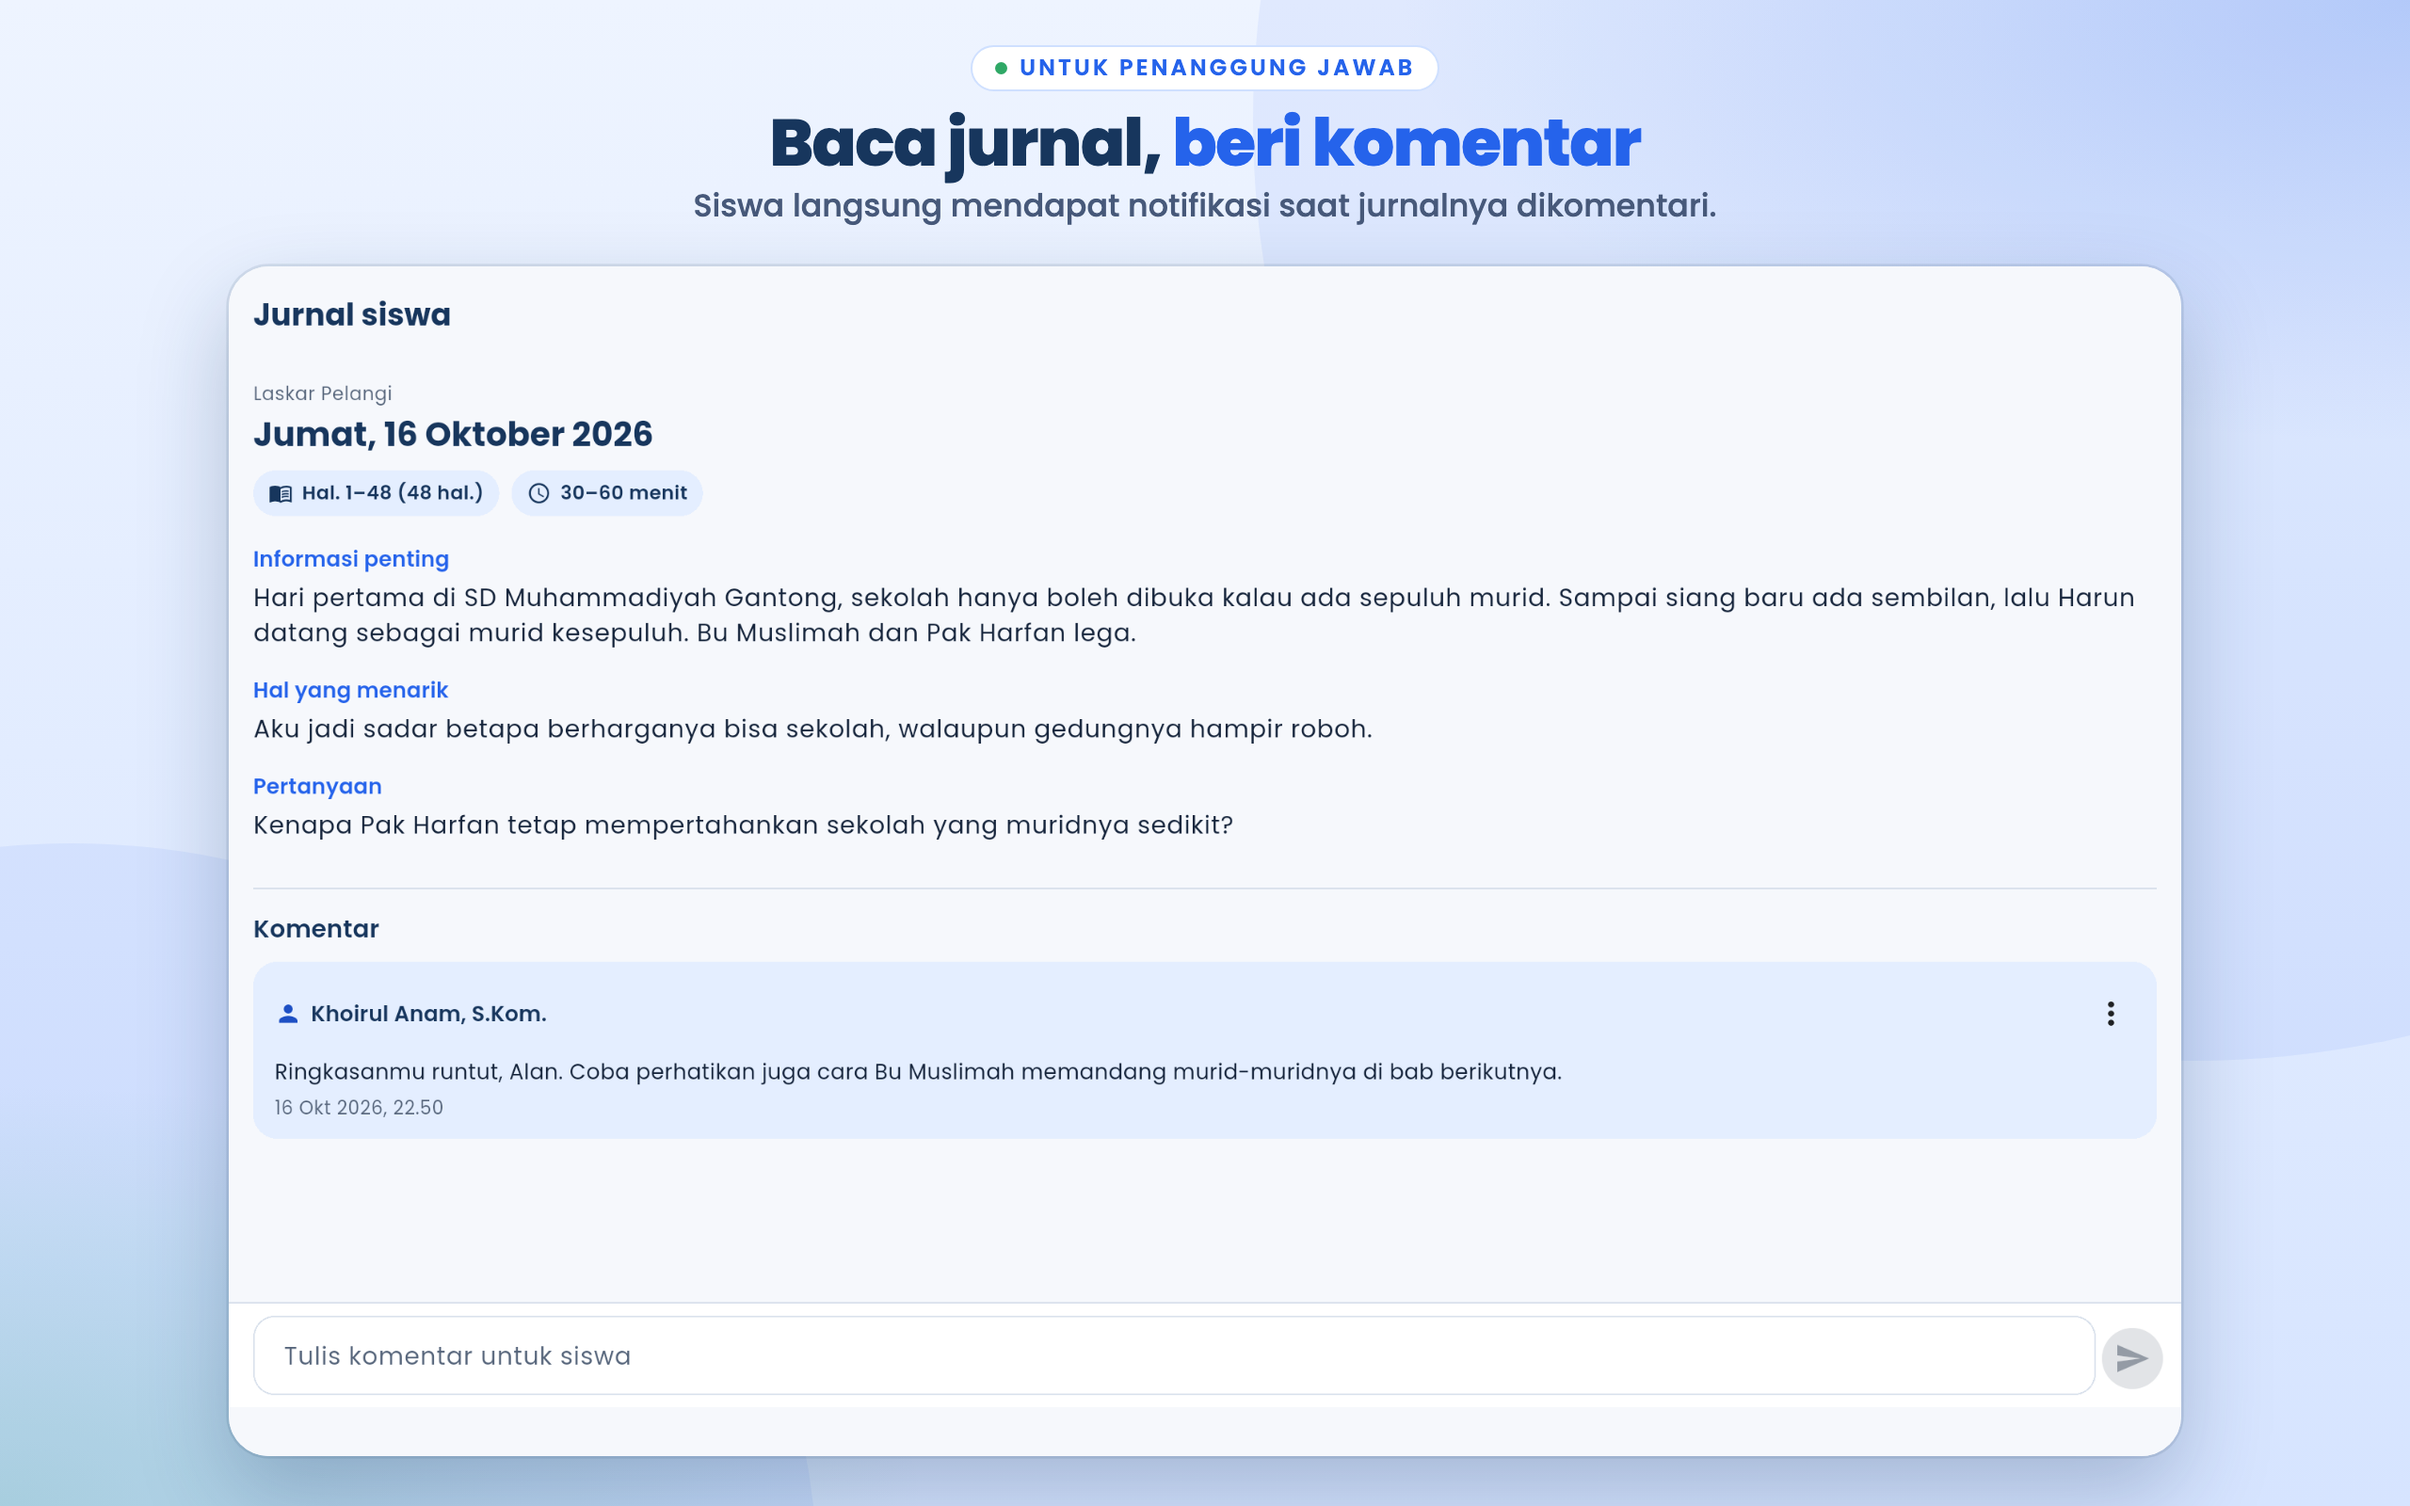
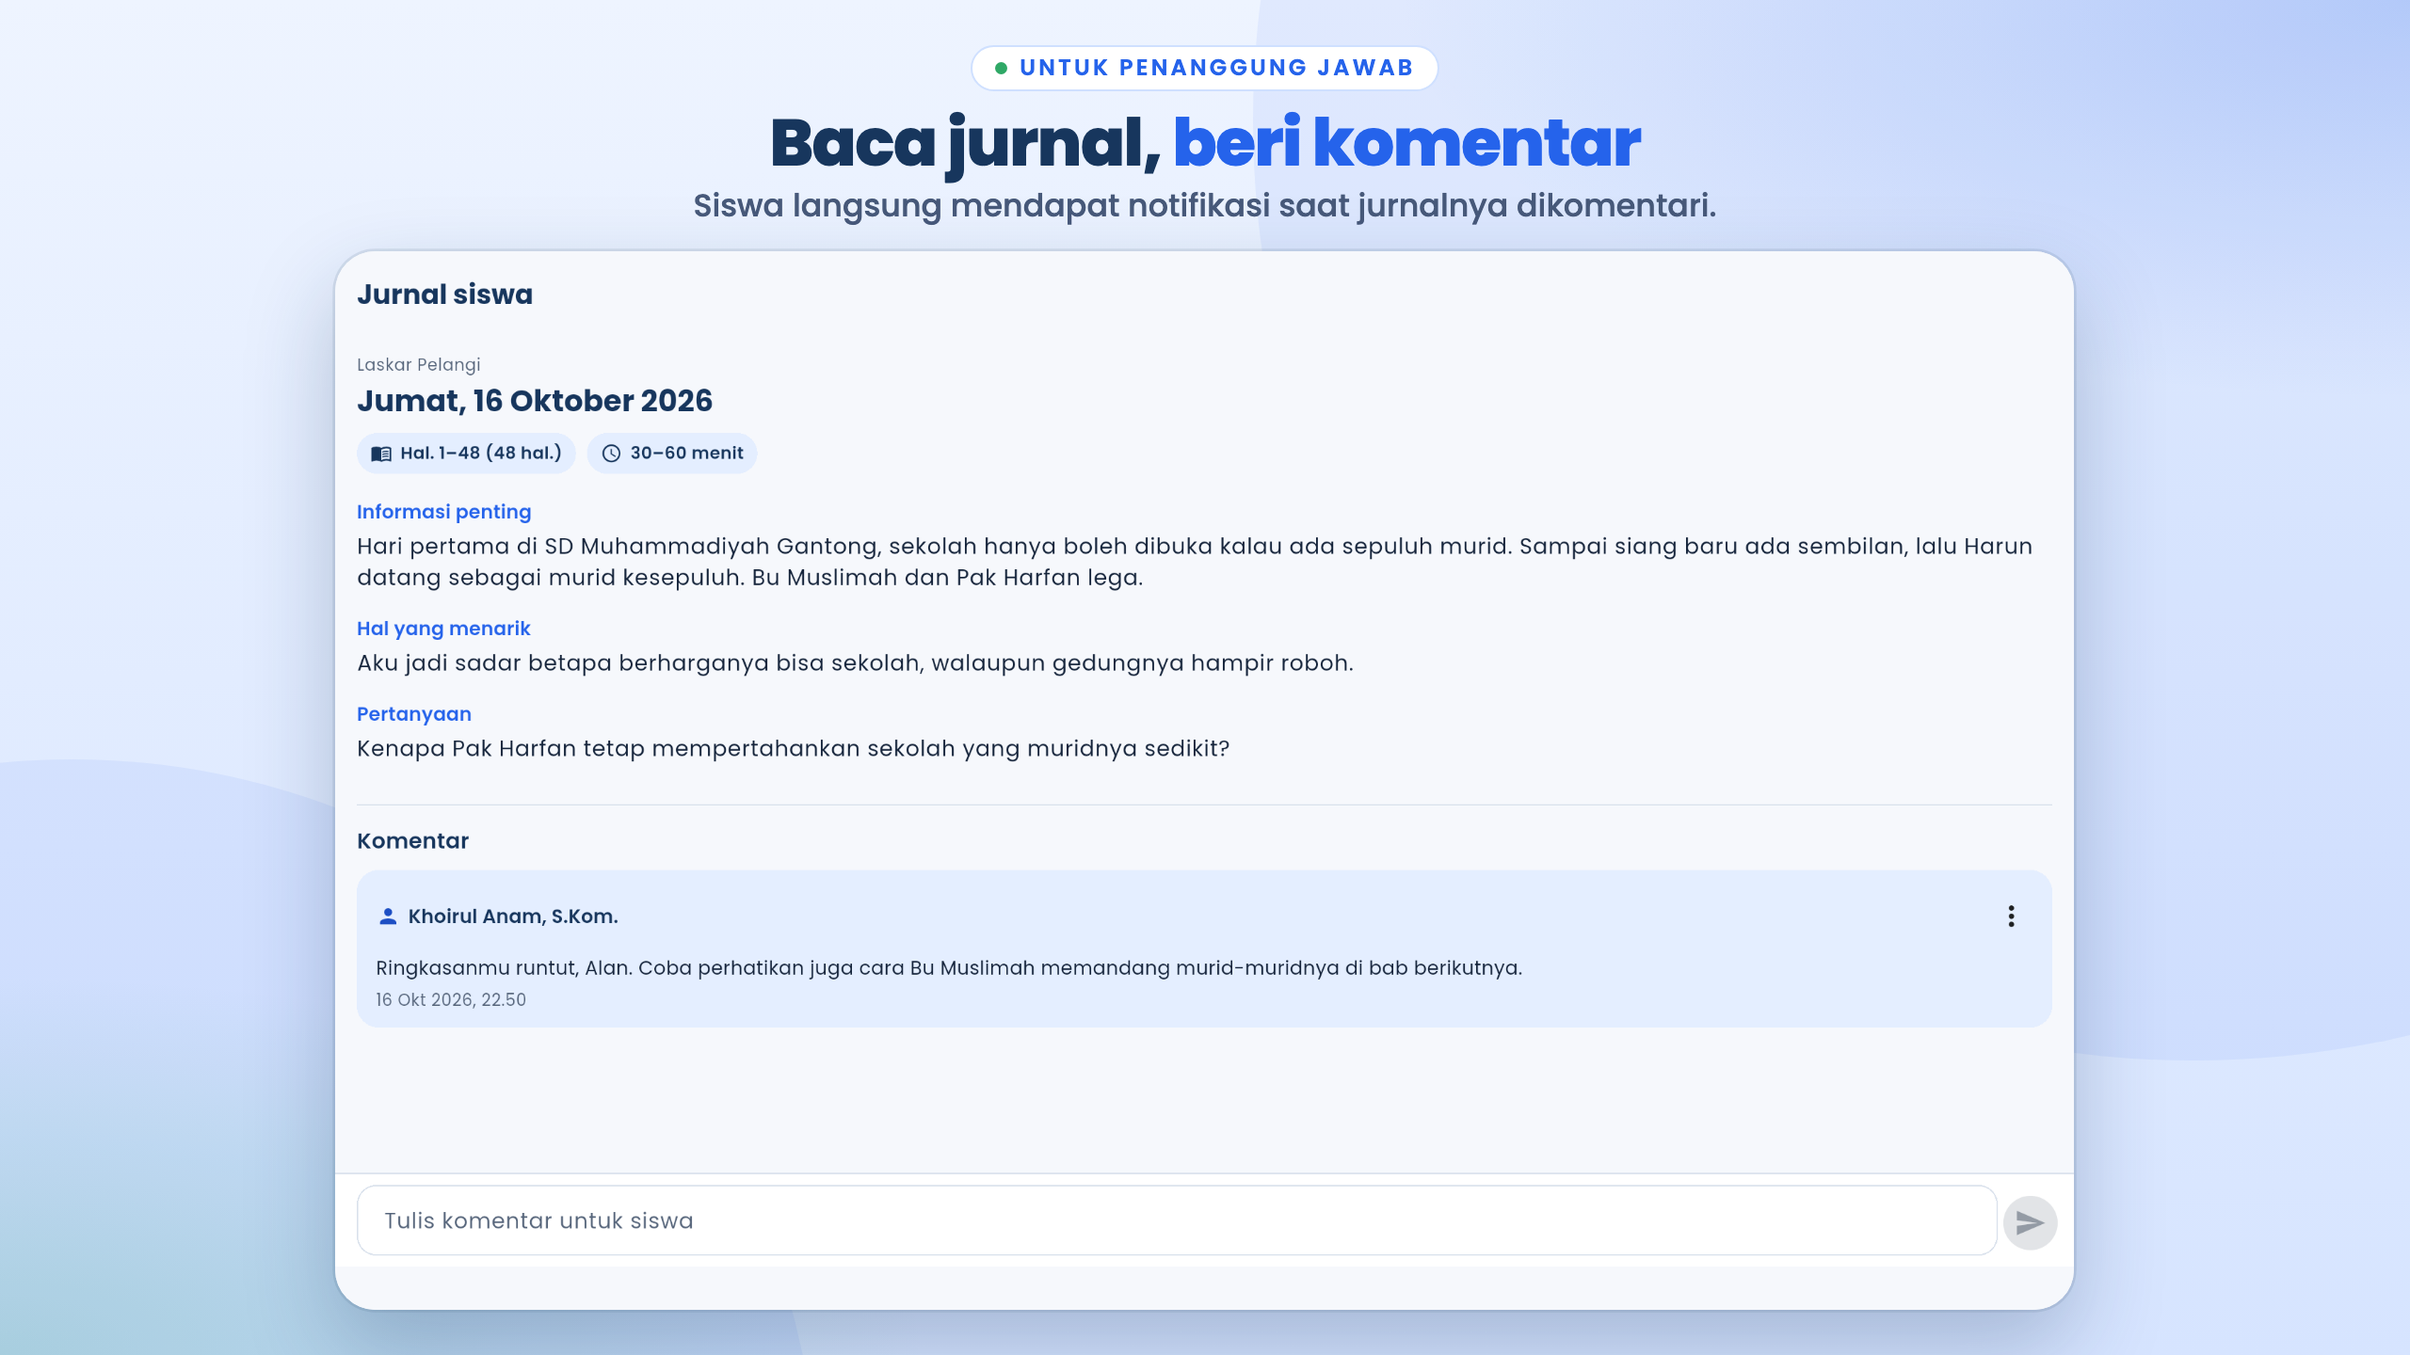
Render the tablet screenshots at 16:9, as Play requires

Changed region(s): [[0.0938, 0.0312, 0.9062, 1.0]]

diff --git a/store/make_assets.py b/store/make_assets.py
@@ -39,8 +39,10 @@ Input:  store/raw/phone/*.png    1080x2424
         store/raw/tablet/*.png   2560x1600
 Output: store/out/feature-graphic.png        1024x500
         store/out/phone-1..8.png             1080x1920
-        store/out/tablet7-1..6.png           1920x1200
-        store/out/tablet10-1..6.png          2560x1600
+        store/out/tablet7-1..6.png           1920x1080
+        store/out/tablet10-1..6.png          2560x1440
+(Play wants 16:9 or 9:16 for every screenshot; a 16:10 image is flagged
+"needs cropping" in the asset library.)
         store/out/icon-512.png               512x512, copy of branding/png/playstore-icon-512.png
 """
 
@@ -314,19 +316,19 @@ h1 {{ margin-top: 18px; font-size: 60px; line-height: 1.12; letter-spacing: -1.2
 
 
 def tablet_page(shot, dark):
-    """1920x1200 landscape: the tagline band on top, the whole app screen
-    below it."""
-    top, bottom = 212, 40
-    height = 1200 - top - bottom
+    """1920x1080 landscape (16:9): the tagline band on top, the whole app
+    screen below it."""
+    top, bottom = 200, 36
+    height = 1080 - top - bottom
     width = round(height * TABLET["width"] / (TABLET["height"] - TABLET["crop_top"]))
     return f"""<!doctype html><meta charset="utf-8"><style>{BASE_CSS}
-body {{ width: 1920px; height: 1200px; }}
+body {{ width: 1920px; height: 1080px; }}
 .copy {{ top: 36px; padding: 0 120px; }}
 .tag {{ font-size: 18px; padding: 6px 18px; letter-spacing: 2.4px; gap: 10px; }}
 .tag i {{ width: 10px; height: 10px; }}
 h1 {{ margin-top: 12px; font-size: 52px; line-height: 1.12; letter-spacing: -1.1px; }}
 .sub {{ margin-top: 4px; font-size: 25px; line-height: 1.35; }}
-</style><body class="{"dark" if dark else "light"}">{orbs(1920, 1200)}
+</style><body class="{"dark" if dark else "light"}">{orbs(1920, 1080)}
 {copy_block(shot)}
 {screen(shot, TABLET, (1920 - width) // 2, top, width, height, 32)}
 {MEASURE_JS}"""
@@ -476,16 +478,16 @@ def main():
                for i, shot in enumerate(TABLET_SHOTS, start=1)]
     errors = [error for name, html in phones for error in measure(html, name, 1080, 1920)]
     errors += [error for index, html in tablets
-               for error in measure(html, f"tablet-{index}", 1920, 1200)]
+               for error in measure(html, f"tablet-{index}", 1920, 1080)]
     if errors:
         raise SystemExit("\n".join(errors))
     render(feature_graphic_page(), "feature-graphic", 1024, 500)
     for name, html in phones:
         render(html, name, 1080, 1920)
     for index, html in tablets:
-        # Same page at two sizes: 1920x1200 for 7 inch, 2560x1600 for 10 inch.
-        render(html, f"tablet7-{index}", 1920, 1200)
-        render(html, f"tablet10-{index}", 1920, 1200, scale=4 / 3)
+        # Same page at two sizes: 1920x1080 for 7 inch, 2560x1440 for 10 inch.
+        render(html, f"tablet7-{index}", 1920, 1080)
+        render(html, f"tablet10-{index}", 1920, 1080, scale=4 / 3)
     shutil.copyfile(BRAND / "png" / "playstore-icon-512.png", OUT / "icon-512.png")
     print((OUT / "icon-512.png").relative_to(ROOT))
 

diff --git a/store/listing.md b/store/listing.md
@@ -103,8 +103,8 @@ address are used; check any new one before committing it.
 | `phone-6.png` | 1080x1920 | Penanggung jawab: dashboard, dark theme |
 | `phone-7.png` | 1080x1920 | Penanggung jawab: catalog book detail, recommend |
 | `phone-8.png` | 1080x1920 | Penanggung jawab: add students by email |
-| `tablet7-1.png` to `tablet7-6.png` | 1920x1200 | Tablet, landscape: siswa beranda, jelajahi, detail buku; dashboard (dark), katalog, komentar jurnal |
-| `tablet10-1.png` to `tablet10-6.png` | 2560x1600 | Same six screens at 10-inch size |
+| `tablet7-1.png` to `tablet7-6.png` | 1920x1080 | Tablet, landscape: siswa beranda, jelajahi, detail buku; dashboard (dark), katalog, komentar jurnal |
+| `tablet10-1.png` to `tablet10-6.png` | 2560x1440 | Same six screens at 10-inch size |
 
 All are 24-bit PNG without alpha.
 

diff --git a/store/play-console.md b/store/play-console.md
@@ -276,8 +276,8 @@ Default language: **Indonesian – id**. Paste from [`listing.md`](listing.md).
 | App icon | 512×512 PNG ≤1 MB | `out/icon-512.png` |
 | Feature graphic | 1024×500 PNG/JPEG, no alpha | `out/feature-graphic.png` |
 | Phone screenshots (2–8) | ≤ 2:1, 320–3840 px | `out/phone-1.png` … `phone-8.png` |
-| 7-inch tablet | 16:9 / 9:16 | `out/tablet7-1.png` … `tablet7-6.png` |
-| 10-inch tablet | 16:9 / 9:16 | `out/tablet10-1.png` … `tablet10-6.png` |
+| 7-inch tablet | 16:9, 1920x1080 | `out/tablet7-1.png` … `tablet7-6.png` |
+| 10-inch tablet | 16:9, 2560x1440 | `out/tablet10-1.png` … `tablet10-6.png` |
 | Video | — | none |
 
 Alt text (≤140 characters, no "photo of"/"image of"):
